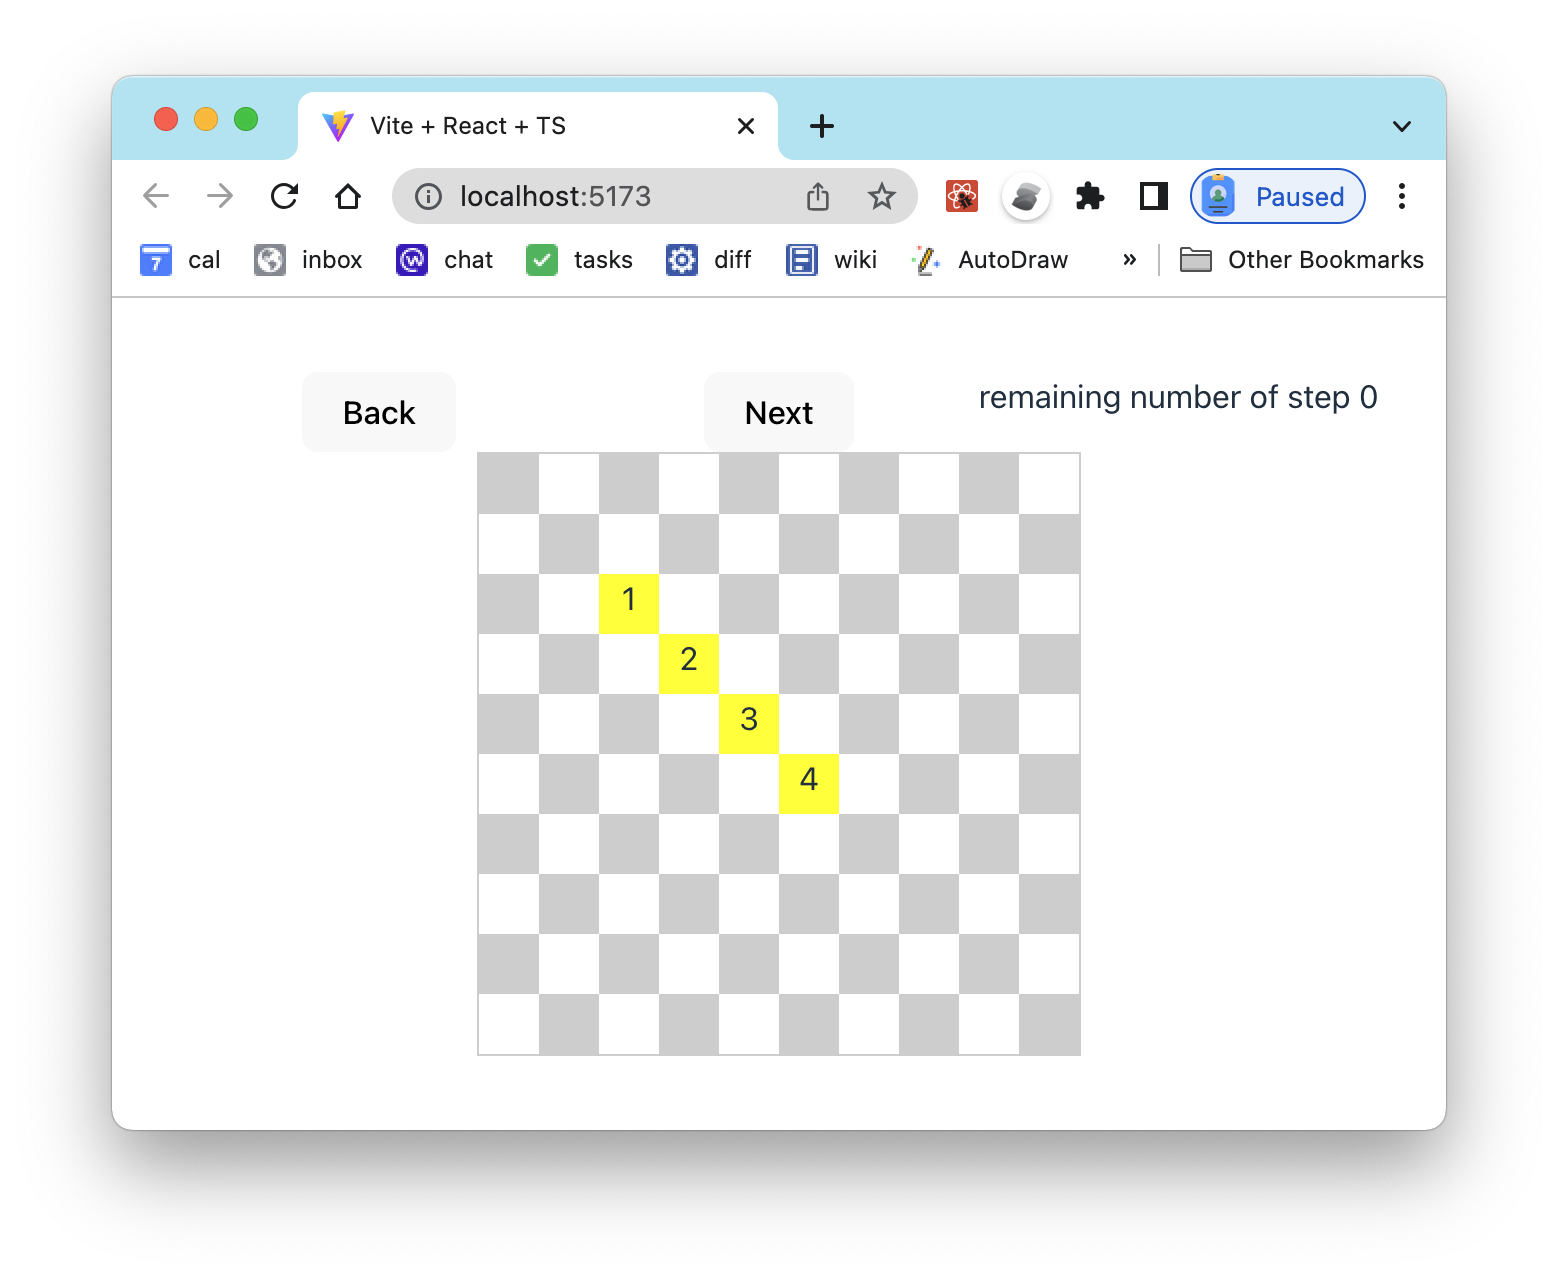
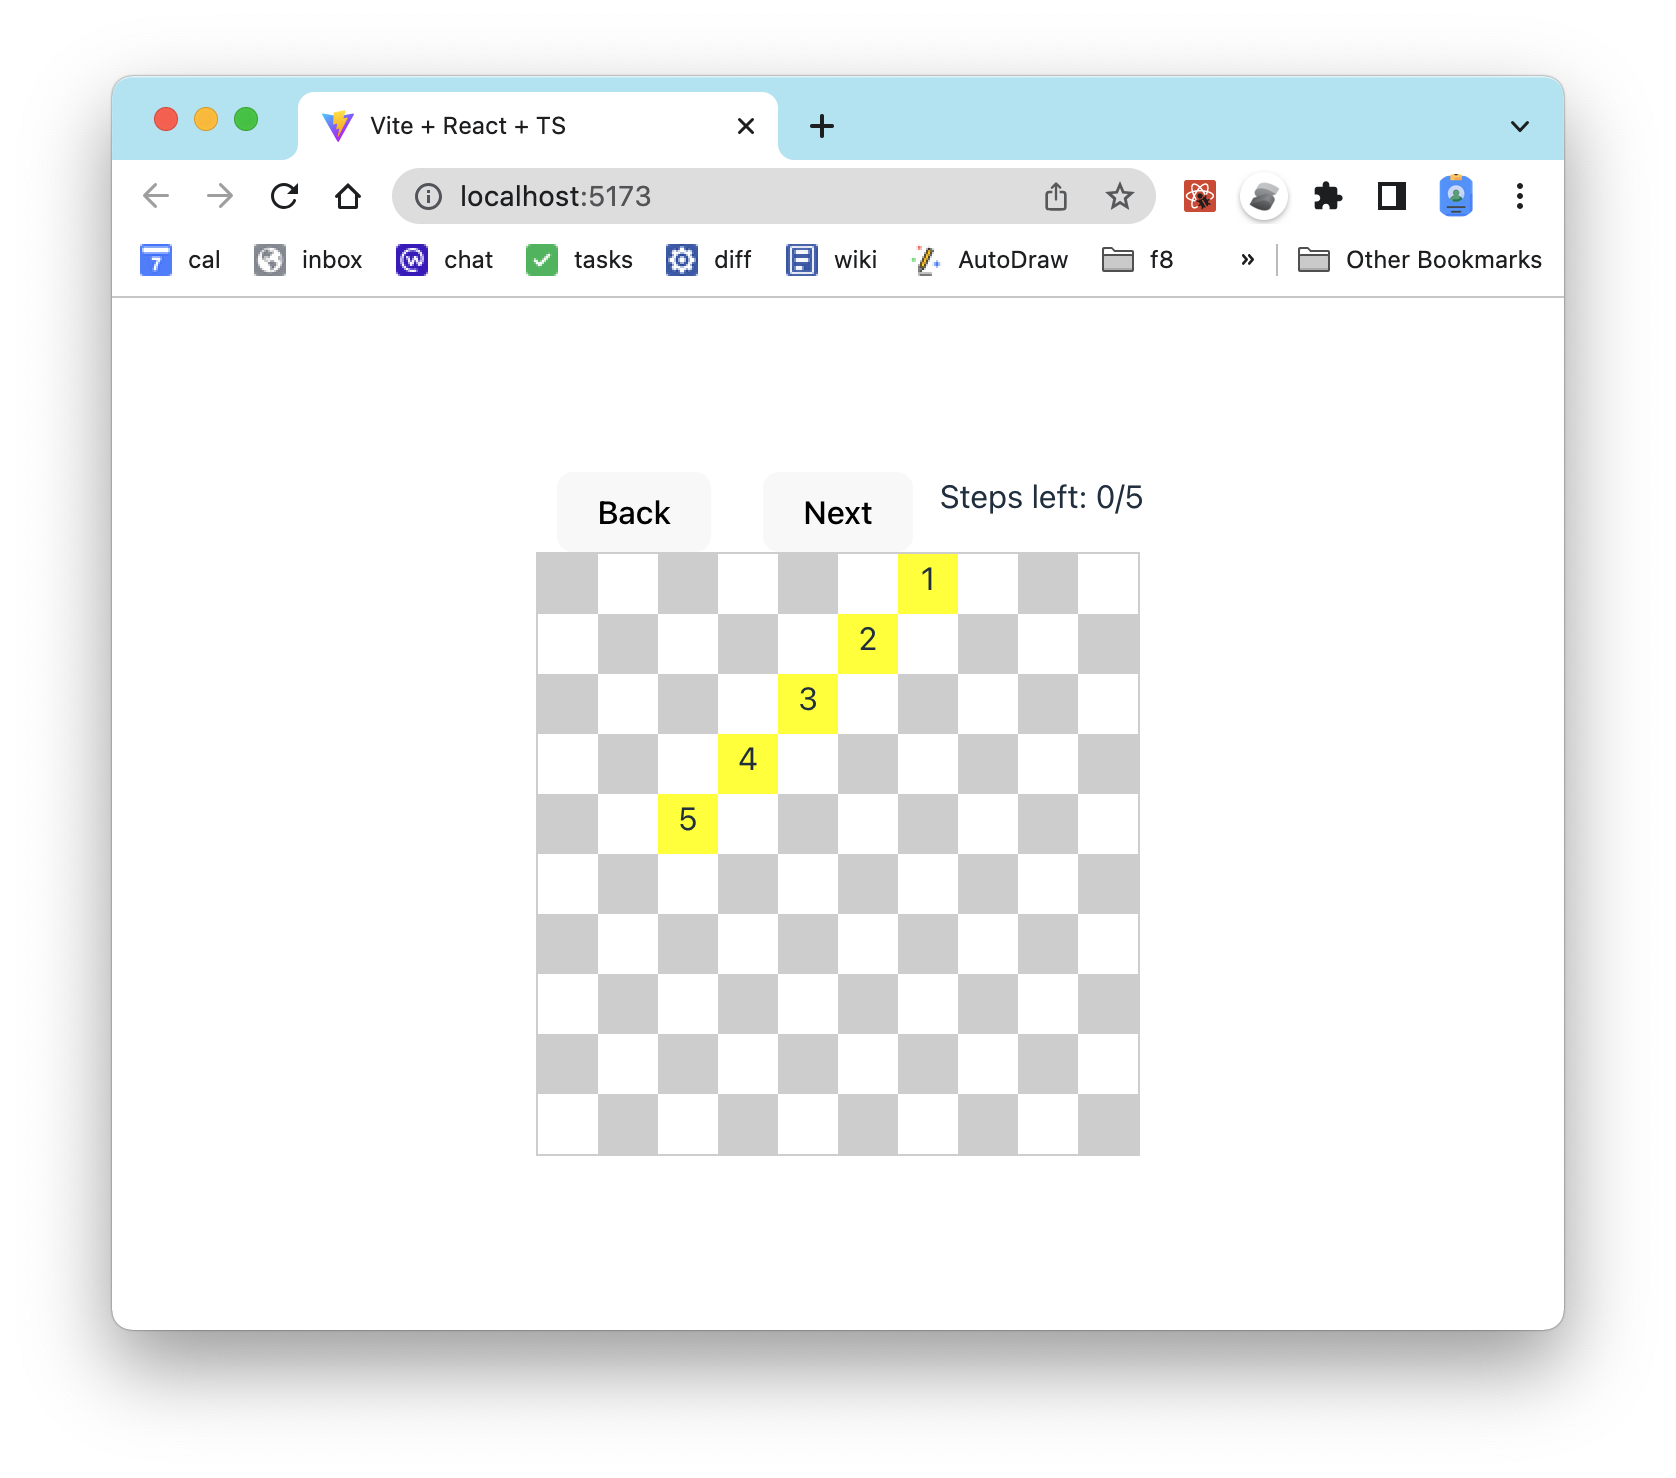
update the wording of the ui and screenshots

Changed region(s): [[0.0616, 0.0305, 0.9551, 0.9155], [0.3081, 0.3052, 0.8935, 0.8239], [0.2157, 0.3052, 0.2773, 0.3357]]

diff --git a/src/App.tsx b/src/App.tsx
@@ -258,7 +258,7 @@ const Stage1 = (): JSX.Element => {
 
   return (
     <div style={style}>
-      <div>Size of the chess board (nxn)</div>
+      <div>Chess Board Size (nxn)</div>
       <div>
         <input
           placeholder="size (nxn)"
@@ -269,7 +269,7 @@ const Stage1 = (): JSX.Element => {
           }}
         ></input>
       </div>
-      <div>Available number of steps</div>
+      <div>Number of available steps</div>
       <div>
         <input
           placeholder="max steps"
@@ -299,7 +299,7 @@ const Stage1 = (): JSX.Element => {
 
 const Stage2 = (): JSX.Element => {
   const chess = useChess();
-  const { setStage, remaingingStep, isDone } = chess;
+  const { setStage, remaingingStep, isDone, maxSteps } = chess;
 
   const style: React.CSSProperties = {
     display: 'grid',
@@ -323,7 +323,9 @@ const Stage2 = (): JSX.Element => {
             Next
           </button>
         </div>
-        <div>remaining number of step {remaingingStep}</div>
+        <div>
+          Steps left: {remaingingStep}/{maxSteps}
+        </div>
       </div>
       <Blocks />
     </div>
@@ -346,6 +348,7 @@ const Stage3 = (): JSX.Element => {
   return (
     <div style={styleBody}>
       <div>
+        <h2>Thank you! Your Steps</h2>
         <Steps />
       </div>
       <div style={styleBottom}>
@@ -356,7 +359,7 @@ const Stage3 = (): JSX.Element => {
         </div>
         <div>
           <button role="button" onClick={(_e) => setStage(1)}>
-            Done
+            START OVER
           </button>
         </div>
       </div>
